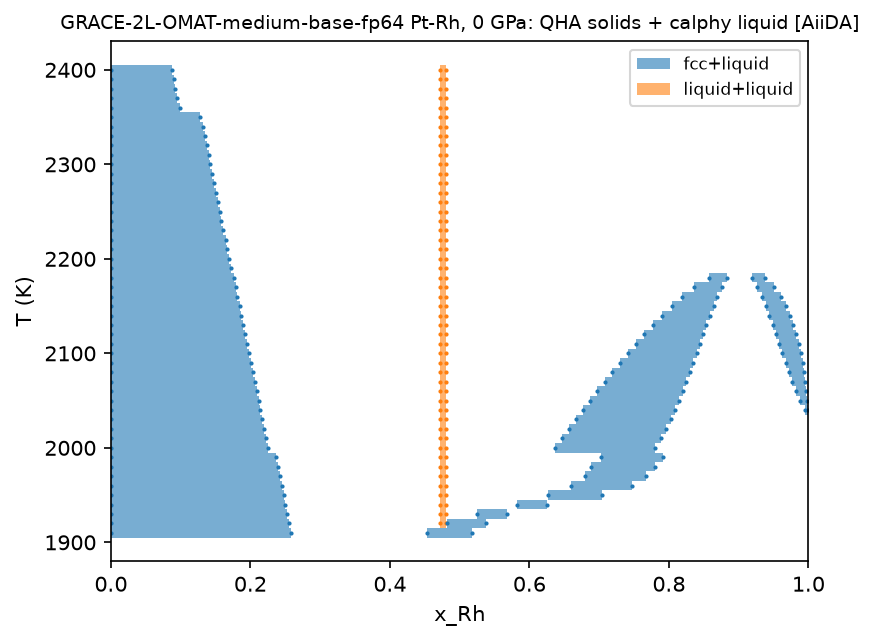
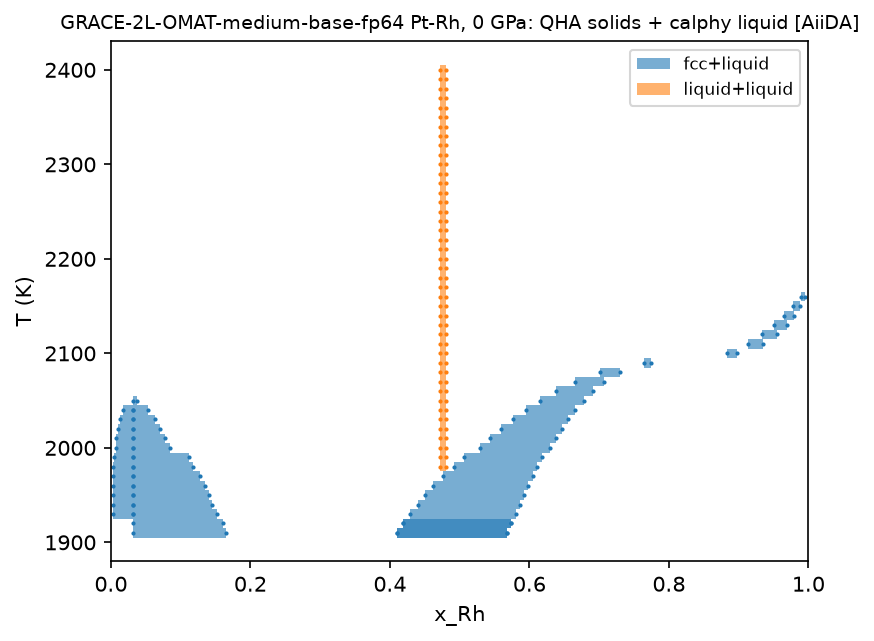
ptrh: Pt end TI - GRACE-2L melts below 1700 K, NequIP below 1850 K; lower TI sweeps and Pt liquids to 1500 K submitted

Changed region(s): [[0.1236, 0.0936, 0.3398, 0.8424], [0.4325, 0.4056, 0.8341, 0.8424], [0.8341, 0.4056, 0.9268, 0.6552]]

diff --git a/ftphase/examples/aiida_txdiagram/out/ptrh_grace_2l_ti/REPORT.md b/ftphase/examples/aiida_txdiagram/out/ptrh_grace_2l_ti/REPORT.md
@@ -1,39 +1,40 @@
 # GRACE-2L-OMAT-medium-base-fp64 Pt-Rh, 0 GPa: QHA solids + calphy liquid [AiiDA] (AiiDA workflow ftphase.txdiagram)
 
-Assembled 2026-11-09 16:29:19.  Classical level, 0.0 GPa, model GRACE-2L-OMAT-medium-base-fp64 (foundation, 2 layers, kokkos export).
+Assembled 2026-11-10 03:49:08.  Classical level, 0.0 GPa, model GRACE-2L-OMAT-medium-base-fp64 (foundation, 2 layers, kokkos export).
 
 ## Inputs
 
 * solids (QHA, lowered to the classical level): 42 cells used, missing []
 * liquids (calphy reversible scaling): 7 runs used, missing []; runs per x {'0.0000': 1, '0.1992': 1, '0.3984': 1, '0.5000': 1, '0.6016': 1, '0.8008': 1, '1.0000': 1}
 * configurational terms: {'fcc': 'ideal', 'PtRh': 'sublattice:b32_antisite', 'PtRh3': 'sublattice:b32_antisite@0.75', 'Pt3Rh': 'sublattice:b32_antisite@0.25'}; fits: {'fcc': 'rk', 'liquid': 'rk', 'PtRh': 'poly', 'PtRh3': 'poly', 'Pt3Rh': 'poly'} (poly = excess over analytic ideal mixing)
-* temperature grid: [1910.0, 2400.0, 50] (K, min, max, points); sigma (eV/atom): {'PtRh3': 0.002, 'liquid': 0.0014, 'Pt3Rh': 0.002, 'PtRh': 0.002, 'fcc': 0.002}
+* temperature grid: [1910.0, 2400.0, 50] (K, min, max, points); sigma (eV/atom): {'Pt3Rh': 0.002, 'PtRh': 0.002, 'fcc': 0.002, 'PtRh3': 0.002, 'liquid': 0.0014}
 
 ## Key numbers
 
-* lowest temperature with liquid on the grid: 1910 K; coexistences: fcc(0.000) + liquid(0.258); liquid(0.453) + fcc(0.517)
-* pure-A melting bracket (x < 0.02): 2400-2410 K
+* lowest temperature with liquid on the grid: 1910 K; coexistences: liquid(0.410) + fcc(0.568); fcc(0.031) + liquid(0.165); liquid(0.410) + fcc(0.568)
+* pure-A melting bracket (x < 0.02): 2040-2050 K
 * invariant reactions:
-  * 1910-1920 K: ['fcc+liquid'] -> ['fcc+liquid', 'liquid+liquid']
+  * 1970-1980 K: ['fcc+liquid'] -> ['fcc+liquid', 'liquid+liquid']
+  * 2160-2170 K: ['fcc+liquid', 'liquid+liquid'] -> ['liquid+liquid']
 
 ## Same-phase segments (fit noise unless wide and stable under the Monte Carlo)
 
-* liquid+liquid x = 0.470-0.480 at T = 1920-2400 K (49 temperatures)
+* liquid+liquid x = 0.470-0.480 at T = 1980-2400 K (43 temperatures)
 
 ## Error bands (Monte Carlo over per-phase offsets)
 
-* 1910 K fcc+fcc: x_a = 0.472 +/- 0.000, x_b = 0.480 +/- 0.000 (3/30 samples)
-* 1910 K fcc+liquid: x_a = 0.000 +/- 0.000, x_b = 0.258 +/- 0.008 (30/30 samples)
-* 1910 K liquid+fcc: x_a = 0.465 +/- 0.057, x_b = 0.529 +/- 0.048 (30/30 samples)
-* 1910 K liquid+liquid: x_a = 0.473 +/- 0.000, x_b = 0.480 +/- 0.000 (10/30 samples)
+* 1910 K fcc+liquid: x_a = 0.031 +/- 0.000, x_b = 0.163 +/- 0.013 (30/30 samples)
+* 1910 K liquid+fcc: x_a = 0.115 +/- 0.183, x_b = 0.204 +/- 0.238 (30/30 samples)
+* 1910 K liquid+fcc#1: x_a = 0.412 +/- 0.018, x_b = 0.569 +/- 0.011 (30/30 samples)
 
 ## QHA (classical level) minus calphy solid TI per cell, meV/atom (anharmonic error of the quasi-harmonic route)
 
+* s00_fcc: 1700 K -82.4, 1775 K -87.2, 1850 K -91.6
 * s23_fcc: 1700 K -22.2, 2025 K -37.1, 2350 K -52.4
 * s24_fcc: 1700 K -22.2, 2025 K -37.1, 2350 K -52.5
 
 ## Caveats
 
 * table check: ["mixed quantum/classical treatment: ['classical', 'classical+harmonic-correction'] (see ftphase.quantum)"]
-* fit residuals at 2000 K: [{'T': 2000.0, 'phase': 'Pt3Rh', 'rmse_eV': 0.01152687053837413, 'flag': True}, {'T': 2000.0, 'phase': 'PtRh', 'rmse_eV': 0.010662565411576473, 'flag': True}, {'T': 2000.0, 'phase': 'PtRh3', 'rmse_eV': 0.005855612308174005, 'flag': True}, {'T': 2000.0, 'phase': 'fcc', 'rmse_eV': 0.010245065341272126, 'flag': True}, {'T': 2000.0, 'phase': 'liquid', 'rmse_eV': 0.0002390506694877179, 'flag': False}]
+* fit residuals at 2000 K: [{'T': 2000.0, 'phase': 'Pt3Rh', 'rmse_eV': 0.01152687053837413, 'flag': True}, {'T': 2000.0, 'phase': 'PtRh', 'rmse_eV': 0.010662565411576473, 'flag': True}, {'T': 2000.0, 'phase': 'PtRh3', 'rmse_eV': 0.005855612308174005, 'flag': True}, {'T': 2000.0, 'phase': 'fcc', 'rmse_eV': 0.01228936207317169, 'flag': True}, {'T': 2000.0, 'phase': 'liquid', 'rmse_eV': 0.0002390506694877179, 'flag': False}]
 * every number is on the classical level of the potential; compare with experiment only after the quantum correction and potential error are accounted for.

diff --git a/ftphase/examples/aiida_txdiagram/out/ptrh_mace_mpa_0_ti/REPORT.md b/ftphase/examples/aiida_txdiagram/out/ptrh_mace_mpa_0_ti/REPORT.md
@@ -1,13 +1,13 @@
 # MACE-MPA-0 medium Pt-Rh, 0 GPa: QHA solids + calphy liquid [AiiDA] (AiiDA workflow ftphase.txdiagram)
 
-Assembled 2026-11-09 16:31:39.  Classical level, 0.0 GPa, model MACE-MPA-0 medium (float32, ML-IAP, cuEquivariance).
+Assembled 2026-11-10 03:51:35.  Classical level, 0.0 GPa, model MACE-MPA-0 medium (float32, ML-IAP, cuEquivariance).
 
 ## Inputs
 
 * solids (QHA, lowered to the classical level): 42 cells used, missing []
 * liquids (calphy reversible scaling): 7 runs used, missing []; runs per x {'0.0000': 1, '0.1992': 1, '0.3984': 1, '0.5000': 1, '0.6016': 1, '0.8008': 1, '1.0000': 1}
 * configurational terms: {'fcc': 'ideal', 'PtRh': 'sublattice:b32_antisite', 'PtRh3': 'sublattice:b32_antisite@0.75', 'Pt3Rh': 'sublattice:b32_antisite@0.25'}; fits: {'fcc': 'rk', 'liquid': 'rk', 'PtRh': 'poly', 'PtRh3': 'poly', 'Pt3Rh': 'poly'} (poly = excess over analytic ideal mixing)
-* temperature grid: [1910.0, 2400.0, 50] (K, min, max, points); sigma (eV/atom): {'PtRh3': 0.002, 'liquid': 0.0014, 'Pt3Rh': 0.002, 'PtRh': 0.002, 'fcc': 0.002}
+* temperature grid: [1910.0, 2400.0, 50] (K, min, max, points); sigma (eV/atom): {'Pt3Rh': 0.002, 'PtRh': 0.002, 'fcc': 0.002, 'PtRh3': 0.002, 'liquid': 0.0014}
 
 ## Key numbers
 
@@ -23,8 +23,8 @@ Assembled 2026-11-09 16:31:39.  Classical level, 0.0 GPa, model MACE-MPA-0 mediu
 ## Error bands (Monte Carlo over per-phase offsets)
 
 * 1910 K fcc+liquid: x_a = 0.000 +/- 0.000, x_b = 0.208 +/- 0.009 (30/30 samples)
-* 1910 K fcc+liquid#1: x_a = 0.991 +/- 0.003, x_b = 1.000 +/- 0.000 (16/30 samples)
-* 1910 K liquid+fcc: x_a = 0.448 +/- 0.008, x_b = 0.791 +/- 0.003 (30/30 samples)
+* 1910 K fcc+liquid#1: x_a = 0.990 +/- 0.003, x_b = 1.000 +/- 0.000 (15/30 samples)
+* 1910 K liquid+fcc: x_a = 0.449 +/- 0.008, x_b = 0.791 +/- 0.003 (30/30 samples)
 
 ## QHA (classical level) minus calphy solid TI per cell, meV/atom (anharmonic error of the quasi-harmonic route)
 

diff --git a/ftphase/examples/aiida_txdiagram/out/ptrh_nequip_oam_m_ti/REPORT.md b/ftphase/examples/aiida_txdiagram/out/ptrh_nequip_oam_m_ti/REPORT.md
@@ -1,13 +1,13 @@
 # NequIP-OAM-M 0.1 Pt-Rh, 0 GPa: QHA solids + calphy liquid [AiiDA] (AiiDA workflow ftphase.txdiagram)
 
-Assembled 2026-11-09 16:30:29.  Classical level, 0.0 GPa, model NequIP-OAM-M 0.1 (ML-IAP, OpenEquivariance).
+Assembled 2026-11-10 03:50:21.  Classical level, 0.0 GPa, model NequIP-OAM-M 0.1 (ML-IAP, OpenEquivariance).
 
 ## Inputs
 
 * solids (QHA, lowered to the classical level): 42 cells used, missing []
 * liquids (calphy reversible scaling): 7 runs used, missing []; runs per x {'0.0000': 1, '0.1992': 1, '0.3984': 1, '0.5000': 1, '0.6016': 1, '0.8008': 1, '1.0000': 1}
 * configurational terms: {'fcc': 'ideal', 'PtRh': 'sublattice:b32_antisite', 'PtRh3': 'sublattice:b32_antisite@0.75', 'Pt3Rh': 'sublattice:b32_antisite@0.25'}; fits: {'fcc': 'rk', 'liquid': 'rk', 'PtRh': 'poly', 'PtRh3': 'poly', 'Pt3Rh': 'poly'} (poly = excess over analytic ideal mixing)
-* temperature grid: [1910.0, 2400.0, 50] (K, min, max, points); sigma (eV/atom): {'PtRh3': 0.002, 'liquid': 0.0014, 'Pt3Rh': 0.002, 'PtRh': 0.002, 'fcc': 0.002}
+* temperature grid: [1910.0, 2400.0, 50] (K, min, max, points); sigma (eV/atom): {'Pt3Rh': 0.002, 'PtRh': 0.002, 'fcc': 0.002, 'PtRh3': 0.002, 'liquid': 0.0014}
 
 ## Key numbers
 
@@ -25,7 +25,7 @@ Assembled 2026-11-09 16:30:29.  Classical level, 0.0 GPa, model NequIP-OAM-M 0.1
 ## Error bands (Monte Carlo over per-phase offsets)
 
 * 1910 K fcc+fcc: x_a = 0.473 +/- 0.000, x_b = 0.480 +/- 0.000 (28/30 samples)
-* 1910 K fcc+liquid: x_a = 0.000 +/- 0.000, x_b = 0.165 +/- 0.011 (30/30 samples)
+* 1910 K fcc+liquid: x_a = 0.000 +/- 0.000, x_b = 0.164 +/- 0.011 (30/30 samples)
 * 1910 K liquid+fcc: x_a = 0.324 +/- 0.022, x_b = 0.448 +/- 0.018 (30/30 samples)
 
 ## QHA (classical level) minus calphy solid TI per cell, meV/atom (anharmonic error of the quasi-harmonic route)

diff --git a/ftphase/examples/ptrh/README.md b/ftphase/examples/ptrh/README.md
@@ -126,7 +126,7 @@ CE の 0 K 規則化エネルギー（規則相 − CE 乱雑）: MACE −4.2 / 
 | 融点（TI 固相 × 液相の交点、2026-11-09） | 実験 | GRACE-2L | NequIP-OAM-M | MACE-MPA-0 |
 |---|---|---|---|---|
 | Rh (x = 1) | 2237 K | 2032 K | 2050 K | 1904 K |
-| Pt (x = 0) | 2041 K | < 1980（TI 上限 2150・1980 K で融解） | < 1980 | < 1980 |
+| Pt (x = 0) | 2041 K | < 1700（TI 1700–1850 K は液相より上、外挿 ≈ 1460 K；1400–1700 K の TI と 1500 K までの液相を投入） | < 1850（上限 1850 K でも融解、1750 K で再投入） | < 1980（1850 K 実行中） |
 | QHA − TI, fcc Rh, 2025–2050 K | — | −37 meV/atom | −78 | −100 |
 
 Rh は液相を `liqext`（`mlip_solids_ti.py liqext --liq 1.0:2200:1900`、pk 12535/12537/12539）で 1900 K まで延ばし、`assemble`（`merge_sweeps` で接ぎ足し、重なり部のずれ 0.1–0.6 meV/atom）→ `melt` で直接の交点（`out/mlip_compare_ptrh/melting_ti.tsv`、`out/ptrh_<mlip>_ti/`）。3 つの MLIP とも Rh を 190–330 K 低く、Pt も 60 K 以上低く見積もる。論文の図 11（PFP の TDB、液相は理想溶体）と比べる土台はこれで揃うが、PFP 自身の融点は論文に数値が無い。Pt 端は上限 1850 K（pk 12554/12559/12601）と Pt 液相の 1700 K までの延長（12561/12563/12565）が実行中。
